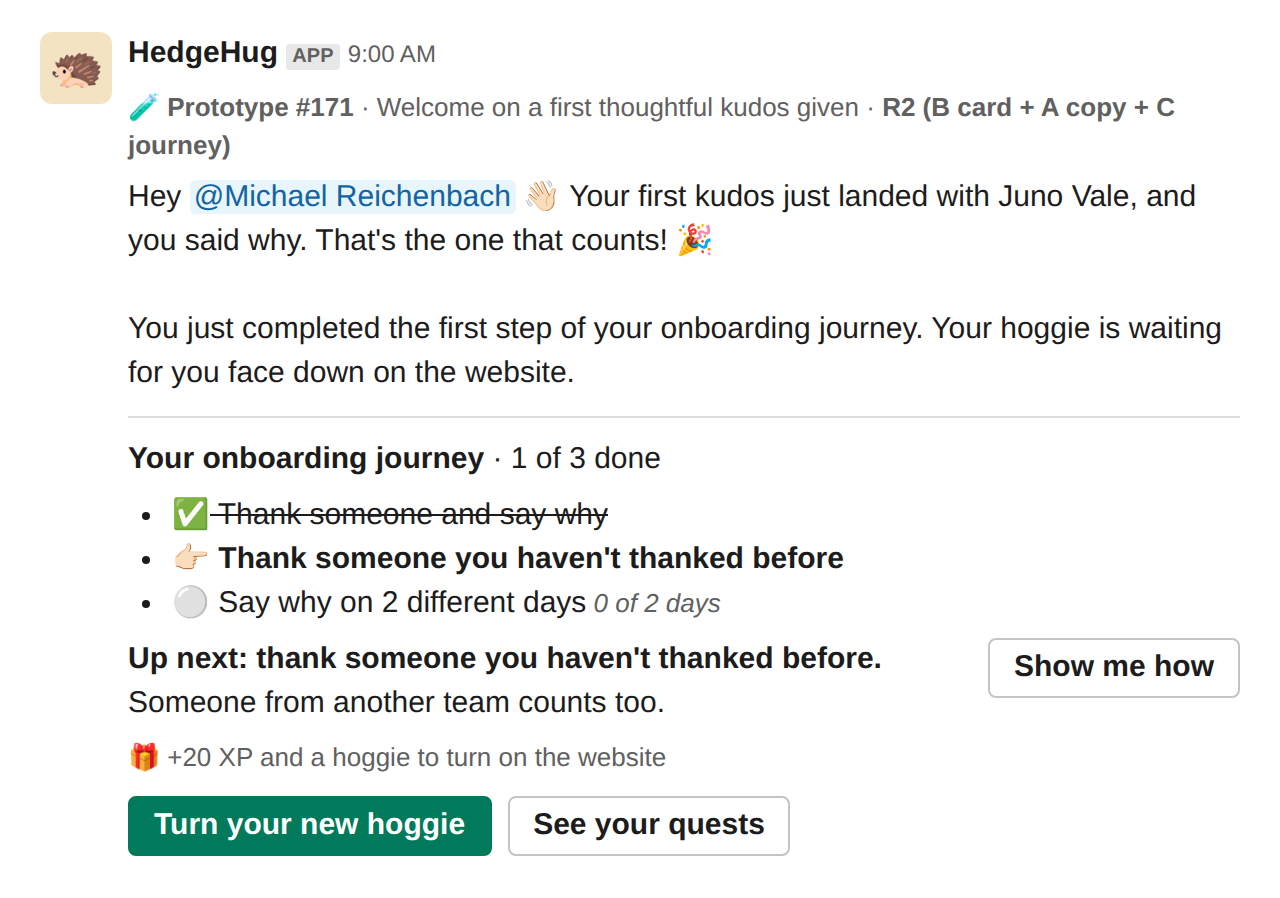
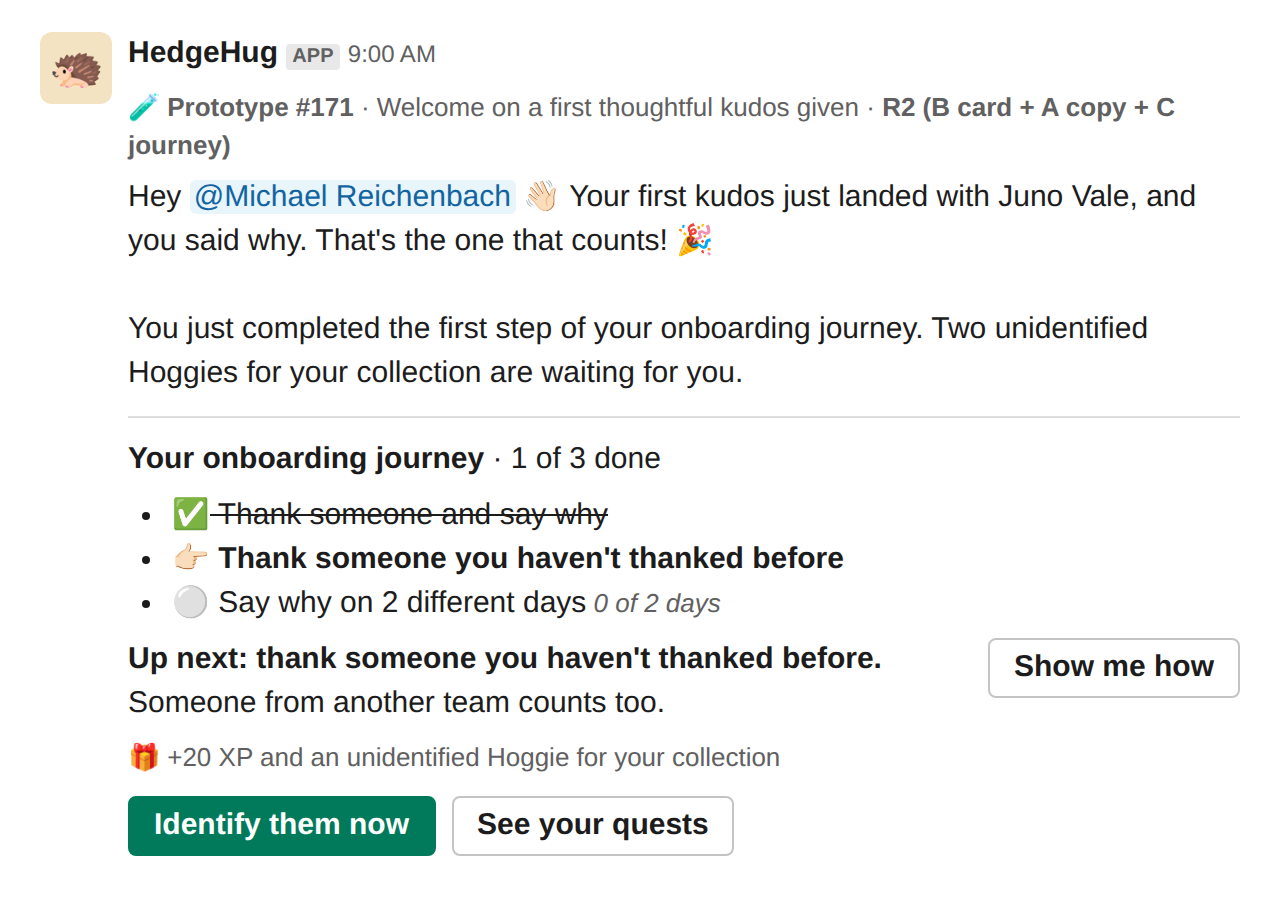
Say unidentified Hoggies wait for the collection, with an Identify button
Replaces the face-down and turn copy in round 2. Never merged.

Changed region(s): [[0.125, 0.8107, 0.625, 0.9666], [0.0938, 0.4053, 0.5938, 0.4365], [0.7188, 0.343, 0.9688, 0.4053]]

diff --git a/website/proof/prototype-171-dms/render-round2.html b/website/proof/prototype-171-dms/render-round2.html
@@ -21,11 +21,11 @@ blockquote { margin: 4px 0; padding-left: 12px; border-left: 4px solid #ddd; }
 ul { margin: 4px 0; padding-left: 22px; }
 .rich { margin: 6px 0; }
 .soft { color: #616061; font-size: 13px; }
-</style><div class="message" id="v1R2"><div class="avatar">🦔</div><div class="body"><div class="who"><b>HedgeHug</b> <span class="app">APP</span> <span class="time">9:00 AM</span></div><div class="context">🧪 <b>Prototype #171</b> · Welcome on a first hug · <b>R2 (B card + A copy + C journey)</b></div><div class="section"><div class="text">Hey <span class="mention">@Michael Reichenbach</span> 👋🏻 Nice, that was your first hug!<br><br>A 🦔 reaction is a quick thanks, and it just gave you and Niko Pratt +1 XP. Want to really make someone's day? Thank them in a message and say why.</div></div><hr><div class="section"><div class="text"><b>Your onboarding journey</b> · 0 of 3 done</div></div><div class="rich"><ul><li>👉🏻<b> Thank someone and say why</b></li><li>⚪ Thank someone you haven't thanked before</li><li>⚪ Say why on 2 different days<i class="soft">  0 of 2 days</i></li></ul></div><div class="section"><div class="text"><b>Up next: thank someone and say why.</b><br>Mention them, add 🦔 and write a sentence about what they did.</div><div class="accessory"><span class="button ">Show me how</span></div></div><div class="context">🎁 +20 XP and a hoggie to turn on the website</div><div class="actions"><span class="button primary">Start your onboarding</span></div></div></div>
-<div class="message" id="v2R2"><div class="avatar">🦔</div><div class="body"><div class="who"><b>HedgeHug</b> <span class="app">APP</span> <span class="time">9:00 AM</span></div><div class="context">🧪 <b>Prototype #171</b> · Welcome on a first thoughtful kudos given · <b>R2 (B card + A copy + C journey)</b></div><div class="section"><div class="text">Hey <span class="mention">@Michael Reichenbach</span> 👋🏻 Your first kudos just landed with Juno Vale, and you said why. That's the one that counts! 🎉<br><br>You just completed the first step of your onboarding journey. Your hoggie is waiting for you face down on the website.</div></div><hr><div class="section"><div class="text"><b>Your onboarding journey</b> · 1 of 3 done</div></div><div class="rich"><ul><li>✅<s> Thank someone and say why</s></li><li>👉🏻<b> Thank someone you haven't thanked before</b></li><li>⚪ Say why on 2 different days<i class="soft">  0 of 2 days</i></li></ul></div><div class="section"><div class="text"><b>Up next: thank someone you haven't thanked before.</b><br>Someone from another team counts too.</div><div class="accessory"><span class="button ">Show me how</span></div></div><div class="context">🎁 +20 XP and a hoggie to turn on the website</div><div class="actions"><span class="button primary">Turn your new hoggie</span><span class="button ">See your quests</span></div></div></div>
-<div class="message" id="v3R2"><div class="avatar">🦔</div><div class="body"><div class="who"><b>HedgeHug</b> <span class="app">APP</span> <span class="time">9:00 AM</span></div><div class="context">🧪 <b>Prototype #171</b> · Welcome on a thoughtful kudos received · <b>R2 (B card + A copy + C journey)</b></div><div class="section"><div class="text">Hey <span class="mention">@Michael Reichenbach</span> 👋🏻 Juno Vale just thanked you with a kudos!<br><blockquote><i>Thanks for jumping on the flaky deploy and pairing with me for an hour, you saved my afternoon</i></blockquote><br><br>Feels good, right? 🙂 Your first quest is to pass it on.</div></div><hr><div class="section"><div class="text"><b>Your onboarding journey</b> · 0 of 3 done</div></div><div class="rich"><ul><li>👉🏻<b> Thank someone and say why</b></li><li>⚪ Thank someone you haven't thanked before</li><li>⚪ Say why on 2 different days<i class="soft">  0 of 2 days</i></li></ul></div><div class="section"><div class="text"><b>Up next: thank someone and say why.</b><br>Mention them, add 🦔 and write a sentence about what they did.</div><div class="accessory"><span class="button ">Show me how</span></div></div><div class="context">🎁 +20 XP and a hoggie to turn on the website</div><div class="actions"><span class="button primary">See your kudos</span><span class="button ">See your quests</span></div></div></div>
-<div class="message" id="v4R2"><div class="avatar">🦔</div><div class="body"><div class="who"><b>HedgeHug</b> <span class="app">APP</span> <span class="time">9:00 AM</span></div><div class="context">🧪 <b>Prototype #171</b> · Catch-up welcome · <b>R2 (B card + A copy + C journey)</b></div><div class="section"><div class="text">Hey <span class="mention">@Michael Reichenbach</span> 👋🏻<br><br>A hoggie was stuck in the pipe, which kept this welcome from coming out. Here it is now 😅<br><br>HedgeHug is how we thank each other here. A 🦔 reaction is a quick hug, and a kudos that says why is the big thanks.</div></div><hr><div class="section"><div class="text"><b>Your onboarding journey</b> · 0 of 3 done</div></div><div class="rich"><ul><li>👉🏻<b> Thank someone and say why</b></li><li>⚪ Thank someone you haven't thanked before</li><li>⚪ Say why on 2 different days<i class="soft">  0 of 2 days</i></li></ul></div><div class="section"><div class="text"><b>Up next: thank someone and say why.</b><br>Mention them, add 🦔 and write a sentence about what they did.</div><div class="accessory"><span class="button ">Show me how</span></div></div><div class="context">🎁 +20 XP and a hoggie to turn on the website</div><div class="actions"><span class="button primary">Start your onboarding</span></div></div></div>
-<div class="message" id="v5R2"><div class="avatar">🦔</div><div class="body"><div class="who"><b>HedgeHug</b> <span class="app">APP</span> <span class="time">9:00 AM</span></div><div class="context">🧪 <b>Prototype #171</b> · Monday DM, quests section only (drawn quests) · <b>R2 (B card + A copy + C journey)</b></div><div class="section"><div class="text">Happy Monday 🌞 Here are three quests for your week. Each one pays +20 XP and a hoggie to turn on the website.</div></div><div class="rich"><ul><li>⚪ Thank someone and say why, 2 times<i class="soft">  0 of 2 kudos</i></li><li>⚪ Thank someone you haven't thanked in the last 30 days</li><li>⚪ Thank someone and say why on 2 different days<i class="soft">  0 of 2 days</i></li></ul></div><div class="actions"><span class="button primary">See your quests</span><span class="button ">Stop Monday quests</span></div></div></div>
-<div class="message" id="v6R2"><div class="avatar">🦔</div><div class="body"><div class="who"><b>HedgeHug</b> <span class="app">APP</span> <span class="time">9:00 AM</span></div><div class="context">🧪 <b>Prototype #171</b> · Monday DM, hugs section + quests section (onboarding) · <b>R2 (B card + A copy + C journey)</b> · low use: Settings tab message settings</div><div class="section"><div class="text">🦔 <b>Your week in hugs</b><br>You reacted 🦔 and gave 6 hugs (+6 XP).<br>Teammates reacted 🦔 on your messages and gave you 9 hugs (+9 XP).<br>Your most hugged message: <a href="https://slack.com">the deploy fix in #kudos-test</a>, 5 hugs.</div></div><hr><div class="section"><div class="text"><b>Your onboarding journey</b> · 1 of 3 done<br>Two quests left this week. Each one pays +20 XP and a hoggie to turn on the website.</div></div><div class="rich"><ul><li>✅<s> Thank someone and say why</s></li><li>👉🏻<b> Thank someone you haven't thanked before</b></li><li>⚪ Say why on 2 different days<i class="soft">  0 of 2 days</i></li></ul></div><div class="actions"><span class="button primary">See your quests</span><span class="button ">Stop Monday quests</span></div><div class="context"><a href="slack://app?team=T0C3US298SH&amp;id=A0C8RU12822&amp;tab=home">Change what I send you</a> in App Home's Settings tab.</div></div></div>
+</style><div class="message" id="v1R2"><div class="avatar">🦔</div><div class="body"><div class="who"><b>HedgeHug</b> <span class="app">APP</span> <span class="time">9:00 AM</span></div><div class="context">🧪 <b>Prototype #171</b> · Welcome on a first hug · <b>R2 (B card + A copy + C journey)</b></div><div class="section"><div class="text">Hey <span class="mention">@Michael Reichenbach</span> 👋🏻 Nice, that was your first hug!<br><br>A 🦔 reaction is a quick thanks, and it just gave you and Niko Pratt +1 XP. Want to really make someone's day? Thank them in a message and say why.<br><br>An unidentified Hoggie for your collection is waiting for you.</div></div><hr><div class="section"><div class="text"><b>Your onboarding journey</b> · 0 of 3 done</div></div><div class="rich"><ul><li>👉🏻<b> Thank someone and say why</b></li><li>⚪ Thank someone you haven't thanked before</li><li>⚪ Say why on 2 different days<i class="soft">  0 of 2 days</i></li></ul></div><div class="section"><div class="text"><b>Up next: thank someone and say why.</b><br>Mention them, add 🦔 and write a sentence about what they did.</div><div class="accessory"><span class="button ">Show me how</span></div></div><div class="context">🎁 +20 XP and an unidentified Hoggie for your collection</div><div class="actions"><span class="button primary">Identify it now</span><span class="button ">See your quests</span></div></div></div>
+<div class="message" id="v2R2"><div class="avatar">🦔</div><div class="body"><div class="who"><b>HedgeHug</b> <span class="app">APP</span> <span class="time">9:00 AM</span></div><div class="context">🧪 <b>Prototype #171</b> · Welcome on a first thoughtful kudos given · <b>R2 (B card + A copy + C journey)</b></div><div class="section"><div class="text">Hey <span class="mention">@Michael Reichenbach</span> 👋🏻 Your first kudos just landed with Juno Vale, and you said why. That's the one that counts! 🎉<br><br>You just completed the first step of your onboarding journey. Two unidentified Hoggies for your collection are waiting for you.</div></div><hr><div class="section"><div class="text"><b>Your onboarding journey</b> · 1 of 3 done</div></div><div class="rich"><ul><li>✅<s> Thank someone and say why</s></li><li>👉🏻<b> Thank someone you haven't thanked before</b></li><li>⚪ Say why on 2 different days<i class="soft">  0 of 2 days</i></li></ul></div><div class="section"><div class="text"><b>Up next: thank someone you haven't thanked before.</b><br>Someone from another team counts too.</div><div class="accessory"><span class="button ">Show me how</span></div></div><div class="context">🎁 +20 XP and an unidentified Hoggie for your collection</div><div class="actions"><span class="button primary">Identify them now</span><span class="button ">See your quests</span></div></div></div>
+<div class="message" id="v3R2"><div class="avatar">🦔</div><div class="body"><div class="who"><b>HedgeHug</b> <span class="app">APP</span> <span class="time">9:00 AM</span></div><div class="context">🧪 <b>Prototype #171</b> · Welcome on a thoughtful kudos received · <b>R2 (B card + A copy + C journey)</b></div><div class="section"><div class="text">Hey <span class="mention">@Michael Reichenbach</span> 👋🏻 Juno Vale just thanked you with a kudos!<br><blockquote><i>Thanks for jumping on the flaky deploy and pairing with me for an hour, you saved my afternoon</i></blockquote><br><br>Feels good, right? 🙂 An unidentified Hoggie for your collection is waiting for you. Your first quest is to pass it on.</div></div><hr><div class="section"><div class="text"><b>Your onboarding journey</b> · 0 of 3 done</div></div><div class="rich"><ul><li>👉🏻<b> Thank someone and say why</b></li><li>⚪ Thank someone you haven't thanked before</li><li>⚪ Say why on 2 different days<i class="soft">  0 of 2 days</i></li></ul></div><div class="section"><div class="text"><b>Up next: thank someone and say why.</b><br>Mention them, add 🦔 and write a sentence about what they did.</div><div class="accessory"><span class="button ">Show me how</span></div></div><div class="context">🎁 +20 XP and an unidentified Hoggie for your collection</div><div class="actions"><span class="button primary">Identify it now</span><span class="button ">See your quests</span></div></div></div>
+<div class="message" id="v4R2"><div class="avatar">🦔</div><div class="body"><div class="who"><b>HedgeHug</b> <span class="app">APP</span> <span class="time">9:00 AM</span></div><div class="context">🧪 <b>Prototype #171</b> · Catch-up welcome · <b>R2 (B card + A copy + C journey)</b></div><div class="section"><div class="text">Hey <span class="mention">@Michael Reichenbach</span> 👋🏻<br><br>A hoggie was stuck in the pipe, which kept this welcome from coming out. Here it is now 😅<br><br>HedgeHug is how we thank each other here. A 🦔 reaction is a quick hug, and a kudos that says why is the big thanks.<br><br>An unidentified Hoggie for your collection is waiting for you.</div></div><hr><div class="section"><div class="text"><b>Your onboarding journey</b> · 0 of 3 done</div></div><div class="rich"><ul><li>👉🏻<b> Thank someone and say why</b></li><li>⚪ Thank someone you haven't thanked before</li><li>⚪ Say why on 2 different days<i class="soft">  0 of 2 days</i></li></ul></div><div class="section"><div class="text"><b>Up next: thank someone and say why.</b><br>Mention them, add 🦔 and write a sentence about what they did.</div><div class="accessory"><span class="button ">Show me how</span></div></div><div class="context">🎁 +20 XP and an unidentified Hoggie for your collection</div><div class="actions"><span class="button primary">Identify it now</span><span class="button ">See your quests</span></div></div></div>
+<div class="message" id="v5R2"><div class="avatar">🦔</div><div class="body"><div class="who"><b>HedgeHug</b> <span class="app">APP</span> <span class="time">9:00 AM</span></div><div class="context">🧪 <b>Prototype #171</b> · Monday DM, quests section only (drawn quests) · <b>R2 (B card + A copy + C journey)</b></div><div class="section"><div class="text">Happy Monday 🌞 Here are three quests for your week. Each one pays +20 XP and an unidentified Hoggie for your collection.<br><br>Three unidentified Hoggies for your collection are waiting for you.</div></div><div class="rich"><ul><li>⚪ Thank someone and say why, 2 times<i class="soft">  0 of 2 kudos</i></li><li>⚪ Thank someone you haven't thanked in the last 30 days</li><li>⚪ Thank someone and say why on 2 different days<i class="soft">  0 of 2 days</i></li></ul></div><div class="actions"><span class="button primary">Identify them on the website</span><span class="button ">See your quests</span><span class="button ">Stop Monday quests</span></div></div></div>
+<div class="message" id="v6R2"><div class="avatar">🦔</div><div class="body"><div class="who"><b>HedgeHug</b> <span class="app">APP</span> <span class="time">9:00 AM</span></div><div class="context">🧪 <b>Prototype #171</b> · Monday DM, hugs section + quests section (onboarding) · <b>R2 (B card + A copy + C journey)</b> · low use: Settings tab message settings</div><div class="section"><div class="text">🦔 <b>Your week in hugs</b><br>You reacted 🦔 and gave 6 hugs (+6 XP).<br>Teammates reacted 🦔 on your messages and gave you 9 hugs (+9 XP).<br>Your most hugged message: <a href="https://slack.com">the deploy fix in #kudos-test</a>, 5 hugs.</div></div><hr><div class="section"><div class="text"><b>Your onboarding journey</b> · 1 of 3 done<br>Two quests left this week. Each one pays +20 XP and an unidentified Hoggie for your collection.<br><br>Two unidentified Hoggies for your collection are waiting for you.</div></div><div class="rich"><ul><li>✅<s> Thank someone and say why</s></li><li>👉🏻<b> Thank someone you haven't thanked before</b></li><li>⚪ Say why on 2 different days<i class="soft">  0 of 2 days</i></li></ul></div><div class="actions"><span class="button primary">Identify them on the website</span><span class="button ">See your quests</span><span class="button ">Stop Monday quests</span></div><div class="context"><a href="slack://app?team=T0C3US298SH&amp;id=A0C8RU12822&amp;tab=home">Change what I send you</a> in App Home's Settings tab.</div></div></div>
 <div class="message" id="v7R2"><div class="avatar">🦔</div><div class="body"><div class="who"><b>HedgeHug</b> <span class="app">APP</span> <span class="time">9:00 AM</span></div><div class="context">🧪 <b>Prototype #171</b> · After Stop: the quests-only DM, replaced in place · <b>R2 (B card + A copy + C journey)</b></div><div class="section"><div class="text">🔕 <b>Done, no more Monday quests from me.</b> Changed your mind? One press brings them back.</div></div><div class="actions"><span class="button ">Turn Monday quests back on</span></div></div></div>
 <div class="message" id="v8R2"><div class="avatar">🦔</div><div class="body"><div class="who"><b>HedgeHug</b> <span class="app">APP</span> <span class="time">9:00 AM</span></div><div class="context">🧪 <b>Prototype #171</b> · After Stop: the hugs + quests DM, replaced in place · <b>R2 (B card + A copy + C journey)</b> · low use: Settings tab message settings</div><div class="section"><div class="text">🦔 <b>Your week in hugs</b><br>You reacted 🦔 and gave 6 hugs (+6 XP).<br>Teammates reacted 🦔 on your messages and gave you 9 hugs (+9 XP).<br>Your most hugged message: <a href="https://slack.com">the deploy fix in #kudos-test</a>, 5 hugs.</div></div><hr><div class="section"><div class="text">🔕 <b>Done, no more Monday quests from me.</b> Your hugs recap still comes on Mondays. Changed your mind? One press brings them back.</div></div><div class="actions"><span class="button ">Turn Monday quests back on</span></div><div class="context"><a href="slack://app?team=T0C3US298SH&amp;id=A0C8RU12822&amp;tab=home">Change what I send you</a> in App Home's Settings tab.</div></div></div><script>const only = location.hash.slice(1); if (only) for (const node of document.querySelectorAll(".message")) if (node.id !== "v" + only) node.style.display = "none";</script>

diff --git a/website/proof/prototype-171-dms/README.md b/website/proof/prototype-171-dms/README.md
@@ -37,3 +37,5 @@ Michael's pick: B's quest card is the core, with A's warm, personal copy and C's
 - Link buttons use `dm-link:<kind>:<destination>` action ids, as `dm link clicked` will read them.
 
 `ROUND=1` selects round 1 in `post.mts` and `render.mts`; round 2 is the default. Stills: `shots/round2/<message>.png`, rendered from `render-round2.html`.
+
+Round 2 update: the waiting Hoggies read "An / Two / Three … unidentified Hoggie(s) for your collection is / are waiting for you", with "Identify it now" / "Identify them now" in the welcomes and "Identify them on the website" in the Monday DM. Every welcome counts its welcome hoggie, and the welcome after a first thoughtful kudos also counts the first quest's hoggie.
